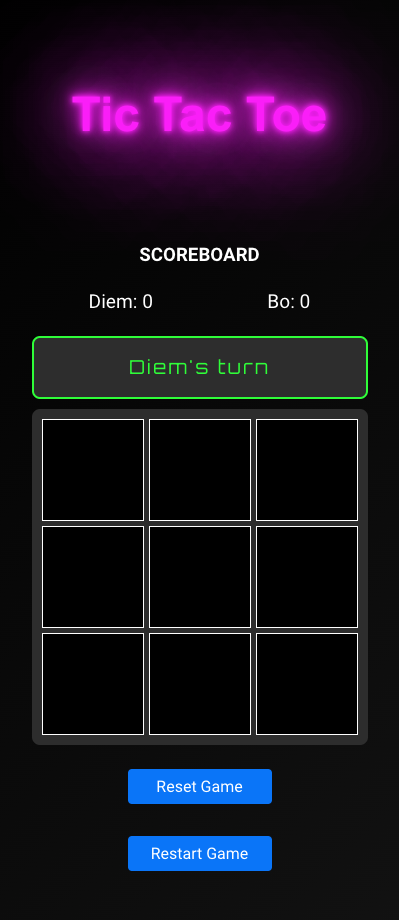
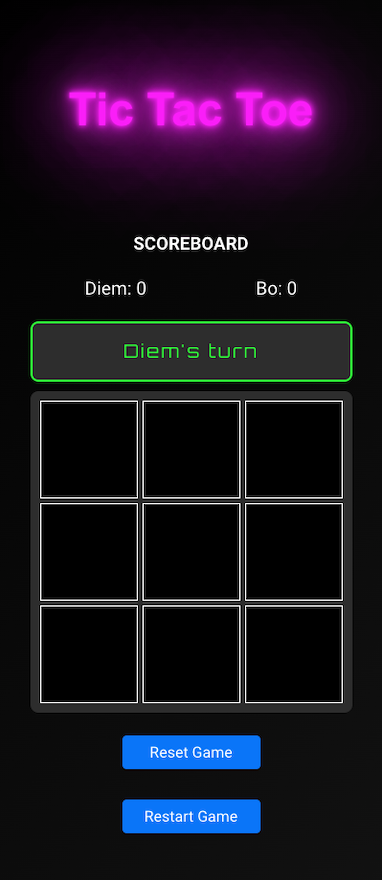
Update README - screenshots

diff --git a/README.md b/README.md
@@ -47,6 +47,7 @@ Then, open your browser and go to the link to play the game.
 
 ## Screenshots
 
-![Tic Tac Toe Game - Join Game Page](src/assets/screenshot1.png)
-![Tic Tac Toe Game - Game Page](src/assets/screenshot2.png)
-![Tic Tac Toe Game - Player won!](src/assets/screenshot3.png)
+<img src="src/assets/screenshot1.png" alt="Tic Tac Toe Game - Join Game Page" width="400" />
+<img src="src/assets/screenshot2.png" alt="Tic Tac Toe Game - Game Page" width="400" />
+<img src="src/assets/screenshot3.png" alt="Tic Tac Toe Game - Player won!" width="400" />
+
